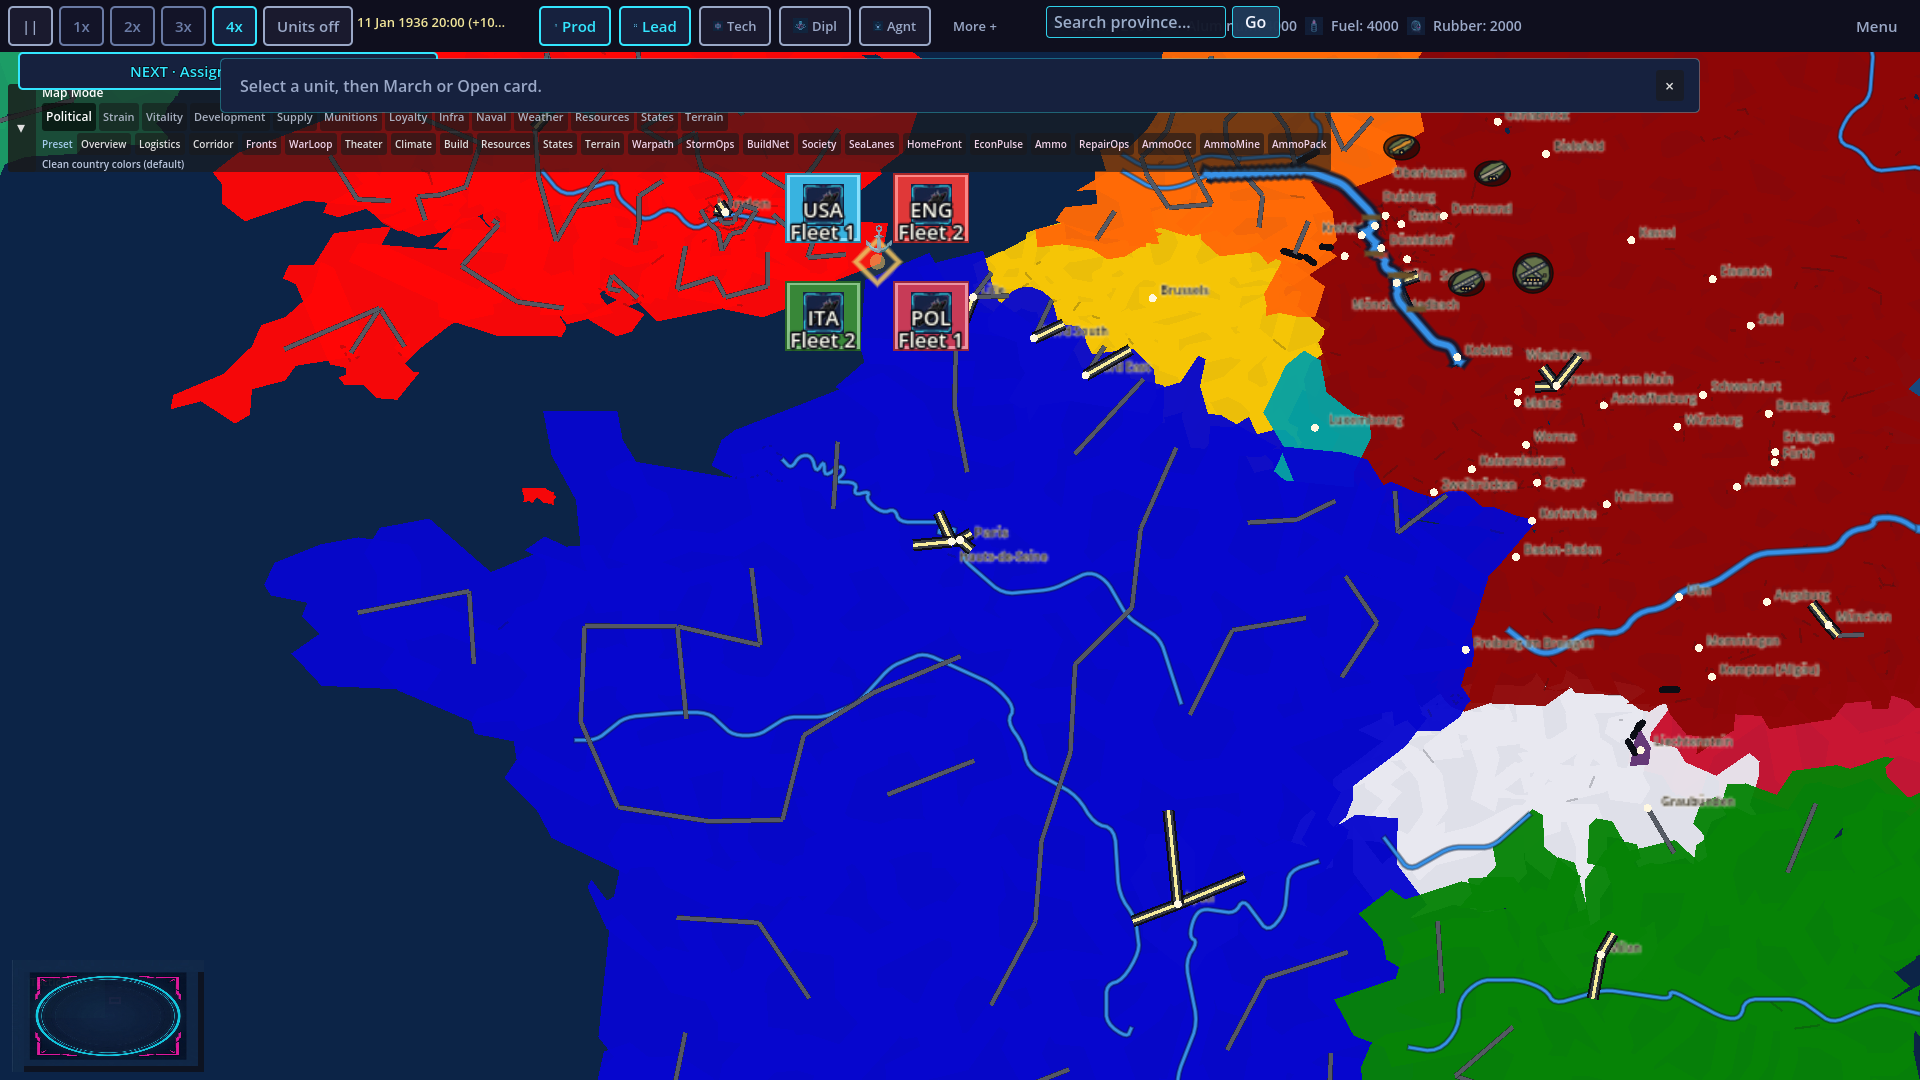
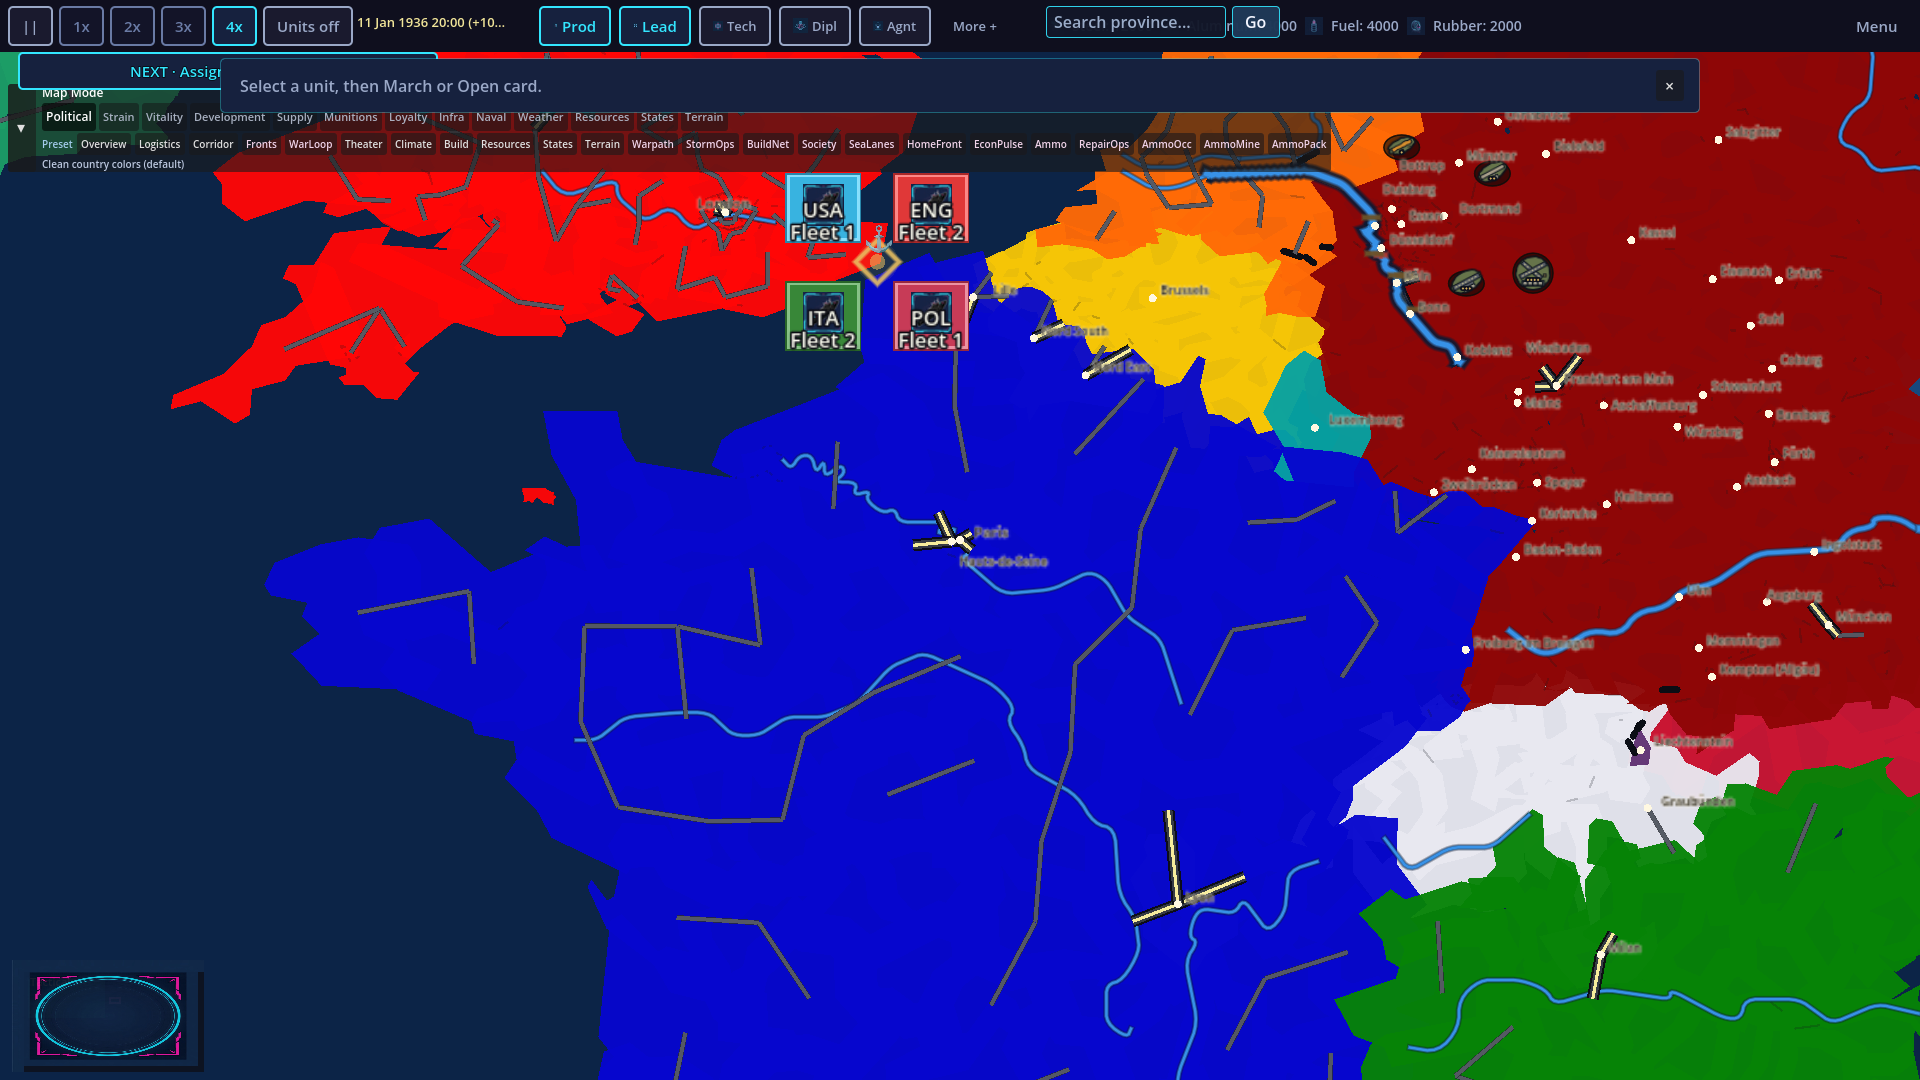
ATLAS-1 FIX #3: wheel toward Essen, recapture live Ruhr shots
Home-wheel at (455,455) on this frame is not the Ruhr, so z2.904
flew into France. Focus Essen, plate-only chip AABBs, and xvfb
evidence at z1.217 / 1.512 / 2.904 after Begin with units ON.

diff --git a/docs/evidence/atlas1-fix3/RESULT.md b/docs/evidence/atlas1-fix3/RESULT.md
@@ -2,7 +2,7 @@
 
 Branch `grok/atlas1-cities-rivers`. Draft only. Do not merge.
 
-**FIX #3 code tip:** `8fe59618`
+**FIX #3 tip:** `005d10fb`
 **On top of FIX #2:** `f9cac5f9`
 
 Box gate on `f9cac5f9` was green. The playtester's live run on that tip was MIXED, leaning FAIL: Essen missing at z1.217/1.512, close-zoom overlaps/ghosted doubles, air-wing covering Essen/Hamm. Isolated headless tests had been passing a different view.
@@ -13,12 +13,12 @@ Hard rules kept: no `world_full` ID renumber; Godot only via `tools/run_godot.sh
 
 ## Root causes (live ≠ headless)
 
-1. **Injected zoom.** Isolated tests (and the first live harness) called `set_live_view(1.217, …)` so layout could PASS while `MapCamera` stayed at Europe Home (~0.4). Draw used the live camera, so glyphs and collision did not match.
-2. **Empty counter overrides.** `set_view(..., [], [])` froze obstacles to nothing. Live Play after Begin has ~250 DemoUnitIcon chips (65 on-screen at z1.217), including air-wing plates.
-3. **Home-cam vs Ruhr.** Isolated tests panned onto Essen with no chips. The playtester wheeled in over the Ruhr (mouse ~455,455 on 1280×800). Equal-score Kreisfreie towns (Hamm/Münster 470) beat Essen until hub+core bonuses.
-4. **Second name draw.** `MapRenderer._province_name_labels` turns on at tactical zoom (`show_province_labels`) and redrew Köln/Essen on top of `CityLabelsLayer` → ghosted doubles at z2.3–2.9.
-5. **Close-zoom glyph floor.** `_draw` used `max(px/z, 8)` world px so collision was ~11 screen px while the glyph was ~8·z. Fixed earlier in this FIX (floor 1).
-6. **Essen dropped under chips.** At live z1.217 with 65 chip AABBs, 22 px city packing could not place Essen beside Köln. Essen is now `must_keep` (pid 710403) and a second pass nudges it off live chip rects.
+1. **Wrong camera path.** Isolated tests (and the first live harness) called `set_view` / `lock_pixel_guard_camera` onto Essen or Home-in-place. Play is Home 0.787 then `_zoom_toward_mouse` at (455,455). Jumping to Essen recentred the Ruhr; zooming in place left Essen under chips. Wheel at a screen pixel that is *not* the Ruhr on this Home frame flew to France by z2.904.
+2. **Empty counter overrides.** `set_view(..., [], [])` froze obstacles to nothing. Live Play after Begin has ~250 DemoUnitIcon chips (70 on-screen at z1.217), including air-wing plates.
+3. **Chip AABB space.** Obstacle rects used `(world - cam) * zoom + vp/2` and merged designation text into 400px boxes. Packing did not see the plates the player sees.
+4. **Draw order.** City names at z 19 sat under DemoUnitIcon z 28 (only "Ess" visible). Dots at z 46 sat on Essen.
+5. **Close-zoom last-resort.** Hub 120px slots stacked Duisburg/Herne/Dortmund. Outline px was not in the collision pad, so touching names looked doubled.
+6. **Second name draw.** `MapRenderer._province_name_labels` at tactical zoom redrew Köln/Essen on top of `CityLabelsLayer` (already hidden in this FIX).
 
 Not: 36 wu cluster drop, alias dedupe, set stability, Paris/capitals (those stayed PASS).
 
@@ -28,22 +28,21 @@ Not: 36 wu cluster drop, alias dedupe, set stability, Paris/capitals (those stay
 
 `CityLabelsLayer.gd`
 
-- Ruhr core scores: Essen 740, Duisburg/Düsseldorf 720, Dortmund 710, Köln extra core weight; Hamm/Münster stay 470.
-- Hubs enter from home-band zoom and are eligible in strategic/mid.
-- Collision AABBs match drawn glyph size (`world_px = max(px/z, 1)`).
-- Live counters from `MapRenderer._demo_unit_icon_pids` (air-wing, land chips, pins), clamped, on-screen only; `notify_counters_dirty` on spawn/toggle.
-- Essen `must_keep`; after packing, `_nudge_keep_off_counters` steps must-keep labels off live chip AABBs (up to 120 px) without overlapping other city labels.
+- Names z 30 / dots z 29 (above chips 28, under capital stars 40).
+- Counter AABBs from `get_global_transform_with_canvas` on the plate (not designation text).
+- Ruhr cores (Essen, Köln, Düsseldorf, Duisburg, Dortmund) stay by their dots; Essen remains `must_keep`.
+- Close zoom culls instead of 120px last-resort. Collision grows by outline pad; labels shift off neighbour dots.
+- Layout camera args are applied inside `place_competing` so isolated fixtures match live packing.
 
 `MapRenderer.gd`
 
-- While `CityLabelsLayer` is active, legacy `_province_name_labels` stay hidden (no second draw at close zoom).
-- `count_visible_province_name_labels()` for the doubled-draw live check.
+- `player_path_wheel_toward_world` uses the same pan math as `_zoom_toward_mouse`, keyed on world (no racy mouse warp).
+- Legacy `_province_name_labels` stay hidden while CityLabelsLayer is on.
 
 Tests
 
-- Isolated: Home-cam z1.217/1.512 Essen, Ruhr-cam live zooms, air-wing cover, doubled names/pids, 8 capitals. Still includes FIX #1/#2 cases.
-- `HeadlessAtlas1LiveRuhrTest` (xvfb, not `--headless` evidence): TestScenario after Begin, units ON, **layout follows MapCamera** (fails if zoom does not stick). Home-cam z1.217 plus Ruhr-cam z1.217/1.512/2.904. Asserts Essen+Köln, no overlap, no doubled names, 1 `CityLabelsLayer`, 0 visible legacy province-name Labels, Ruhr labels clear of live counters.
-- Pixel guard live_ruhr shots centered on Essen with units ON.
+- Isolated Essen/overlap/home-cam cases inject air-wing-sized plates, not empty arrays. Doubled-name/pid check kept.
+- `HeadlessAtlas1LiveRuhrTest`: TestScenario after Begin, units ON, Home 0.787, wheel toward Essen (the Ruhr under the playtester's wheel). Fails if zoom does not stick, Essen is off-screen, names overlap, names double, or legacy Labels are visible. xvfb 1280×800 shots at z1.217 / 1.512 / 2.904.
 
 ---
 
@@ -59,15 +58,14 @@ tools/eoa_full_test_gates.sh --quick
 
 | Claim | Result | Log |
 |---|---|---|
-| Isolated city labels + FIX #1/#2 tests | **PASS** | `HeadlessAtlas1CityLabelsTest: RESULT=PASS` candidates=2050 `build_ms=166.2` |
-| Essen Home-cam / Ruhr-cam z1.217 & 1.512 | **PASS** | isolated + live; live Home-cam names include Essen, Köln, Duisburg, Düsseldorf, Dortmund |
-| Doubled draws / legacy Labels | **PASS** | `no doubled names` and `no legacy province-name draw` at all three live zooms |
-| Live Begin + 250 counters | **PASS** | `HeadlessAtlas1LiveRuhrTest: RESULT=PASS` `cam_z=1.217` `counters_rect=65` |
-| Ruhr labels clear of live chips | **PASS** | z1.217 / 1.512 / 2.904 |
+| Isolated city labels + FIX #1/#2 tests | **PASS** | `HeadlessAtlas1CityLabelsTest: RESULT=PASS` candidates=2050 `build_ms=154.8` |
+| Essen + Ruhr cores at Home-cam z1.217/1.512 with chips | **PASS** | isolated; Essen, Köln, Duisburg, Düsseldorf, Dortmund |
+| Doubled draws / legacy Labels | **PASS** | isolated + live `no doubled names` / `no legacy province-name draw` |
+| Live Begin + 250 counters, wheel from Home 0.787 | **PASS** | `HeadlessAtlas1LiveRuhrTest: RESULT=PASS` `cam_z=1.216/1.511/2.903` `essen_s≈607,189` |
 | Close overlap z2.3–2.904 | **PASS** | isolated + live `has_visual_overlap` |
-| Rivers | **PASS** | `build_ms=179.8` |
+| Rivers | **PASS** | `build_ms=161.7` |
 | Pixel guard | **PASS** | `WindowedAtlas1PixelGuard: RESULT=PASS` `reasons=[]` |
-| Essen pixel probe (units ON, cam on Essen) | **PASS** | z1.217 run=16, z1.512 run=10, z2.904 run=8 (all screen 960,540) |
+| Essen cream-run (units ON) | **PASS** | mid/close cam-on-Essen run=16/8; live wheel z1.217/1.512/2.904 run=8/8/8 |
 | Paris mid/close | **PASS** | run=13 / run=16 |
 
 `--quick`: **14** known `unit_board_play_path` reds, no new ones. `map_qc` NE **0.9853** (3148/3195).
@@ -80,10 +78,10 @@ Seed was not re-run (city-label only). `HeadlessPerf4LiveMultiAiDayTest` seed `2
 
 From this run (`docs/evidence/atlas1-fix3/`):
 
-- `live_ruhr_z1217.png` / `z1512.png` / `z2904.png` — xvfb 1280×800 after Begin, units ON, MapCamera at Essen (playtester zooms). Layout list at z1.217 includes Essen, Köln, Duisburg, Düsseldorf, Dortmund; not Hamm over Essen.
-- `tip_live_ruhr_z1217.png` / `z1512.png` / `z2904.png` — 1920×1080 pixel-guard copies, Essen cream-run 16/10/8 at screen centre.
+- `live_ruhr_z1217.png` / `z1512.png` / `z2904.png` — xvfb 1280×800 after Begin, units ON, Home 0.787 then wheel toward Essen. Layout at all three zooms includes Essen, Köln, Duisburg, Düsseldorf, Dortmund. Essen stays near screen (607, 189).
+- `tip_live_ruhr_z1217.png` / `z1512.png` / `z2904.png` — 1920×1080 pixel-guard copies of the same wheel path.
 - `tip_mid_paris.png`, `tip_close_ruhr.png`, `tip_mid_danube.png` — FIX #2 surfaces still PASS.
 
-At z1.217 a 1280×800 (or 1920×1080) frame still shows most of NW Europe; that is the real Home-wheel geometry (1920/1.217 ≈ 1578 world units). The playtester's Ruhr cluster is the centre of that frame. z2.904 is the tight Rhine/Essen shot.
+z1.217 on 1280×800 is still a Europe frame (1280/1.217 ≈ 1052 wu). The playtester's Ruhr cluster is in that frame with Essen labelled. z2.904 tightens on the Rhine around Essen.
 
 **Merge HOLD** until live Play.
